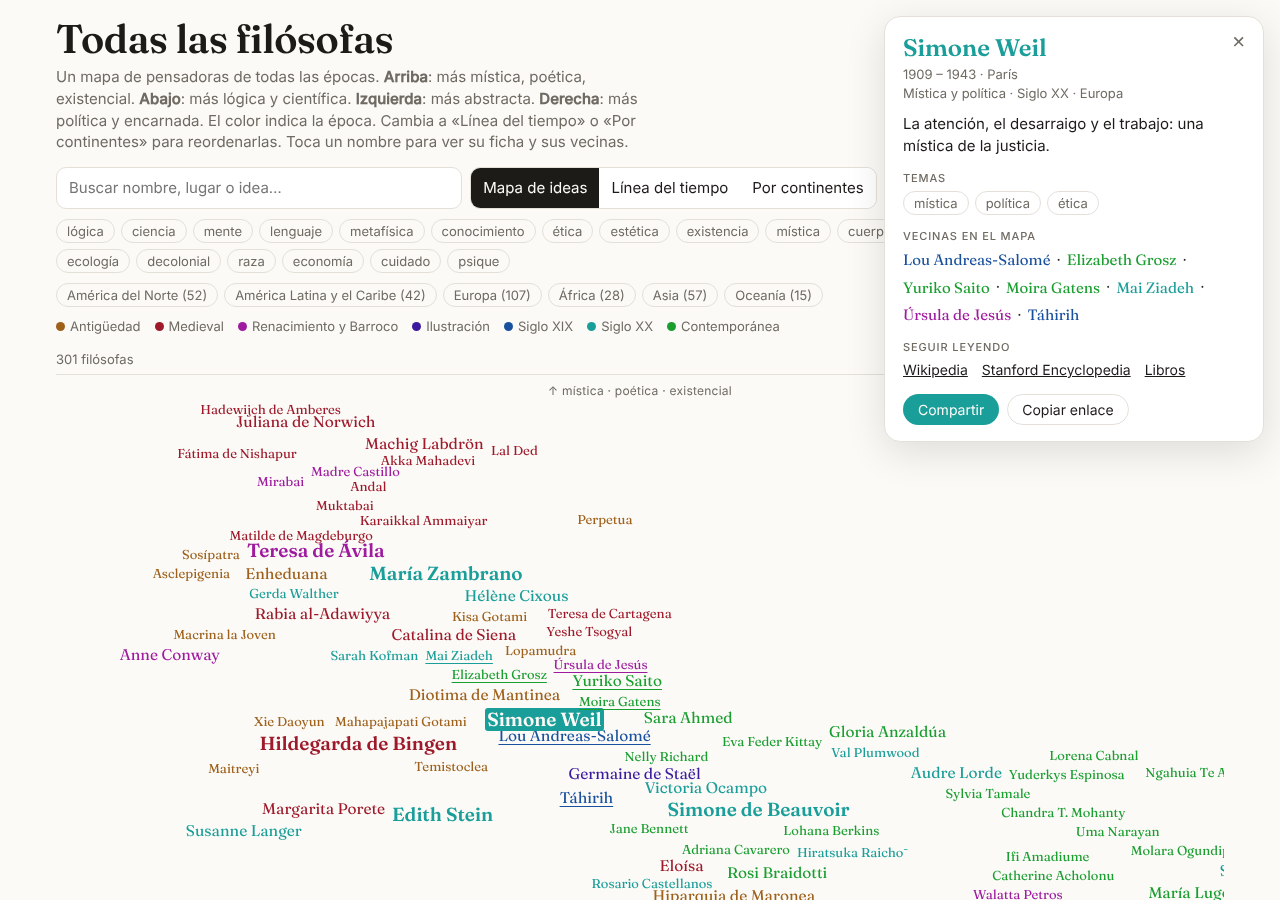
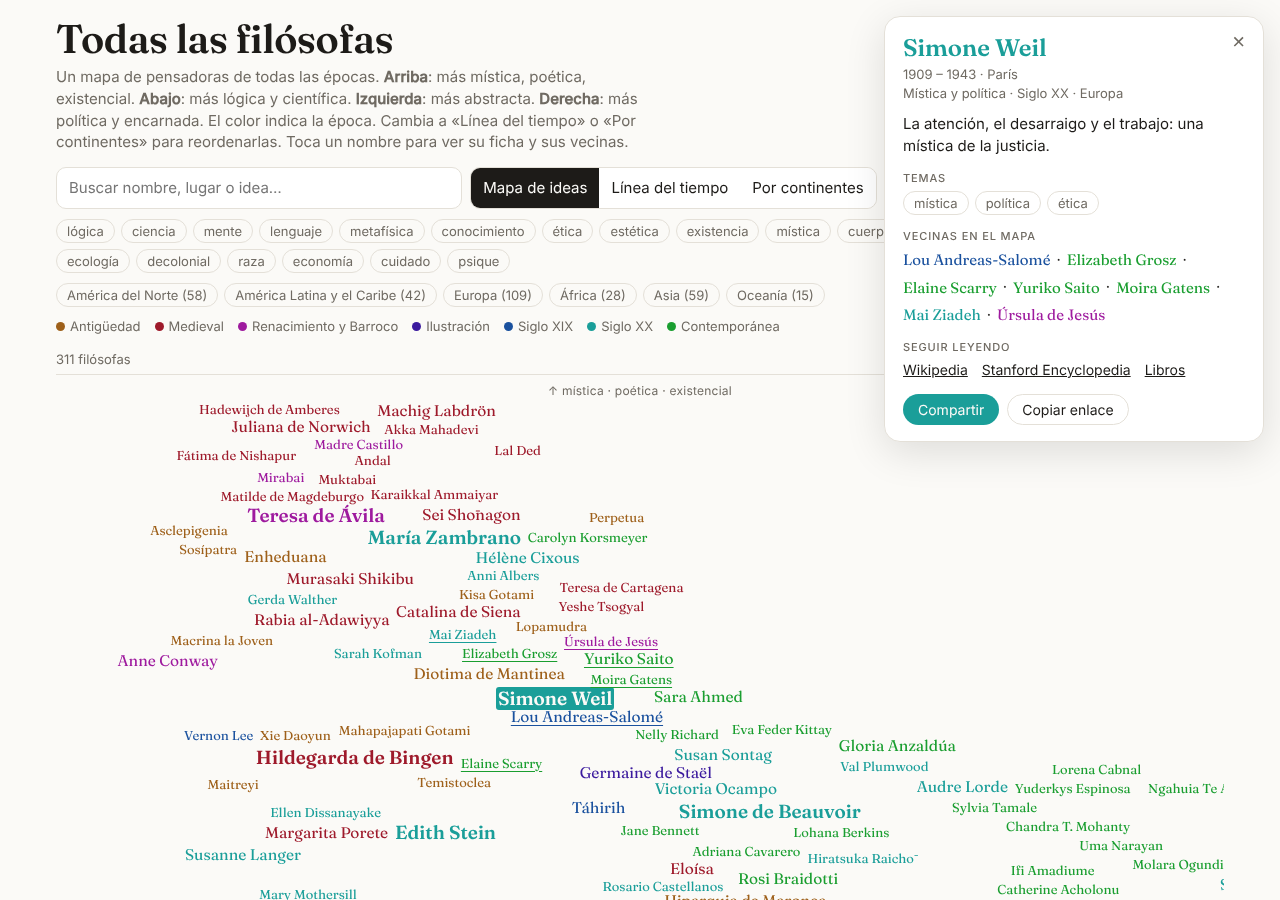
Filósofas: parientes estéticas de Yuriko Saito y vecinas por temas compartidos
Añade a Sei Shōnagon, Murasaki Shikibu, Vernon Lee, Anni Albers, Mary
Mothersill, Susan Sontag, Ellen Dissanayake, Elaine Scarry, Carolyn
Korsmeyer y Sianne Ngai. Las «vecinas» de cada ficha se eligen ahora por
temas compartidos además de por cercanía en el mapa.

Claude-Session: https://claude.ai/code/session_01KKfWKBF6TY6dsgWVrcAB93

diff --git a/filosofas/index.html b/filosofas/index.html
@@ -442,7 +442,17 @@ const D=[
 ["Maria Montessori",1870,1952,0,"Italia","Pedagogía","educacion cuerpo","La niña y el niño se educan a sí mismos en un entorno preparado.",2],
 ["Grace de Laguna",1878,1978,0,"Estados Unidos","Pragmatismo","lenguaje mente","El habla nace de su función social.",1],
 ["Rachel Carson",1907,1964,0,"Pensilvania","Ecología","ecologia ciencia","«Primavera silenciosa».",2],
-["Yuriko Saito",1953,null,1,"Japón / EE. UU.","Estética cotidiana","estetica ecologia etica","«Estética cotidiana»: lo bello y lo feo en lo que hacemos cada día —lavar, ordenar, reparar— tiene consecuencias éticas y ecológicas.",2]
+["Yuriko Saito",1953,null,1,"Japón / EE. UU.","Estética cotidiana","estetica ecologia etica","«Estética cotidiana»: lo bello y lo feo en lo que hacemos cada día —lavar, ordenar, reparar— tiene consecuencias éticas y ecológicas.",2],
+["Sei Shōnagon",966,1025,1,"Kioto, Japón","Literatura de corte Heian","estetica existencia","«El libro de la almohada»: listas de cosas que agradan, que irritan o que conmueven; una estética de lo cotidiano mil años antes de que tuviera nombre.",2],
+["Murasaki Shikibu",973,1014,1,"Kioto, Japón","Literatura de corte Heian","estetica existencia psique","«La historia de Genji»: la sensibilidad ante lo efímero (mono no aware) como forma de conocer.",2],
+["Vernon Lee",1856,1935,0,"Francia / Florencia","Estética","estetica psique mente","«Belleza y fealdad»: la empatía estética, sentir las formas con el propio cuerpo.",1],
+["Anni Albers",1899,1994,0,"Berlín / EE. UU.","Bauhaus","estetica cuerpo","«Sobre el tejer»: pensar con las manos y la materia en los oficios.",1],
+["Mary Mothersill",1923,2008,0,"Nueva York","Estética analítica","estetica conocimiento","«La belleza recuperada»: defendió que la belleza merece volver al centro de la filosofía.",1],
+["Susan Sontag",1933,2004,0,"Nueva York","Ensayo","estetica politica","«Contra la interpretación» y «Notas sobre lo camp»: una erótica del arte en lugar de una hermenéutica.",2],
+["Ellen Dissanayake",1935,null,0,"Estados Unidos","Estética evolutiva","estetica cuerpo ciencia","«Homo aestheticus»: el arte como «hacer especial» lo cotidiano, una necesidad humana.",1],
+["Elaine Scarry",1946,null,0,"Estados Unidos","Estética","estetica etica cuerpo","«Sobre la belleza y ser justos»: la belleza nos entrena para la justicia.",1],
+["Carolyn Korsmeyer",1950,null,0,"Estados Unidos","Estética","estetica cuerpo","«El sentido del gusto»: la comida y el gusto como asuntos filosóficos.",1],
+["Sianne Ngai",1971,null,0,"Estados Unidos","Teoría estética","estetica economia","«Nuestras categorías estéticas»: lo mono, lo chiflado y lo interesante en el capitalismo tardío.",1]
 ];
 
 /* temas → dirección en el mapa: [x: abstracta(-) / política(+), y: lógica(-) / mística(+)] */
@@ -464,7 +474,7 @@ const CONTS=["América del Norte","América Latina y el Caribe","Europa","Áfric
 const CONT_RX=[
  [1,/Lima|Colombia|Uruguay|Ecuador|Bolivia|Cuba|Caracas|Oaxaca|México|Nueva España|Buenos Aires|Argentina|La Paz|Chile|Guatemala|Brasil|São Paulo|Santos|República Dominicana|Jamaica|Panamá/],
  [3,/Cartago|Etiopía|Congo|Sokoto|Sudáfrica|Sierra Leona|Kenia|Senegal|Uganda|Alejandría|Cirene|Fez|Egipto|Nigeria|Orán/],
- [4,/Tíbet|Corea|Japón|Irán|Persia|Líbano|Nazaret|Java|Siria|India|Mesopotamia|China|Tokio|Cachemira|Bengala|Basora|Pérgamo|Capadocia|Mileto|Pakistán|Baréin|Calcuta|Bombay|Dehradun|Karnataka|Rajastán|Maharashtra/],
+ [4,/Kioto|Tíbet|Corea|Japón|Irán|Persia|Líbano|Nazaret|Java|Siria|India|Mesopotamia|China|Tokio|Cachemira|Bengala|Basora|Pérgamo|Capadocia|Mileto|Pakistán|Baréin|Calcuta|Bombay|Dehradun|Karnataka|Rajastán|Maharashtra/],
  [5,/Aotearoa|Hawái|Fiyi|Australia|Nueva Zelanda|Sídney/],
  [0,/Estados Unidos|EE\. UU\.|Nueva York|Connecticut|Chicago|Canadá|Minnesota|Texas|Pensilvania|Ottawa|Ohio|Nueva Jersey|Milwaukee|Massachusetts|Kentucky|Filadelfia|Denver|Cleveland|Carolina|Boston|Baltimore|California|Alabama/]];
 const CONT_FIX={"Dorothy Wrinch":2,"Francesca Gargallo":1,"Nelly Richard":1};
@@ -593,9 +603,15 @@ function relax(W,H){
   }
 }
 
+/* «vecinas»: comparten temas (sobre todo el principal), están cerca en el mapa y, a igualdad, en el tiempo */
 function neighbours(p,k=7){
-  return P.filter(q=>q!==p).map(q=>({q,d:Math.hypot(q.ix-p.ix,q.iy-p.iy)+Math.abs(q.b-p.b)/4000}))
-    .sort((a,b)=>a.d-b.d).slice(0,k).map(o=>o.q);
+  return P.filter(q=>q!==p).map(q=>{
+    const sh=q.tags.filter(t=>p.tags.includes(t)).length;
+    const jac=sh/(new Set([...p.tags,...q.tags]).size);
+    const main=(q.tags[0]===p.tags[0]?.35:0)+(q.tags.includes(p.tags[0])?.15:0);
+    const d=-(jac*1.4+main)+Math.hypot(q.ix-p.ix,q.iy-p.iy)*.5+Math.abs(q.b-p.b)/5000;
+    return {q,d};
+  }).sort((a,b)=>a.d-b.d).slice(0,k).map(o=>o.q);
 }
 const card=document.getElementById('card');
 function select(p){
